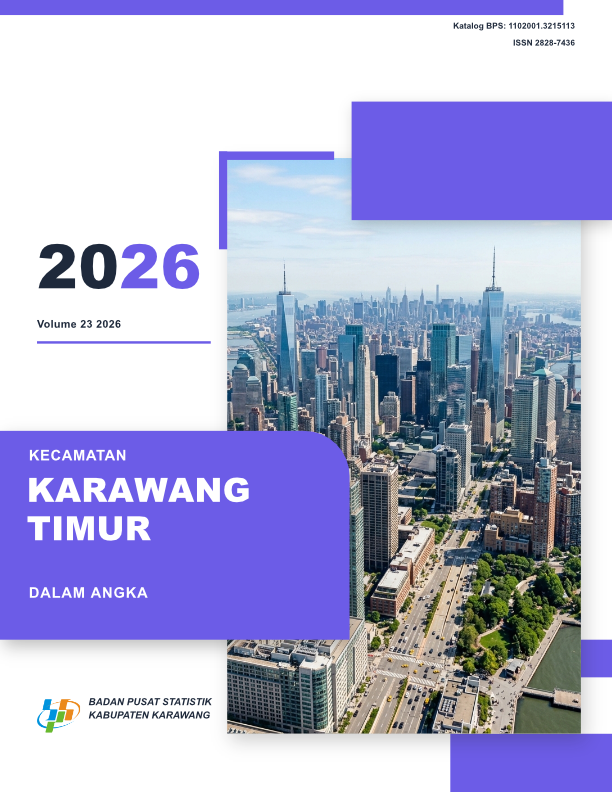
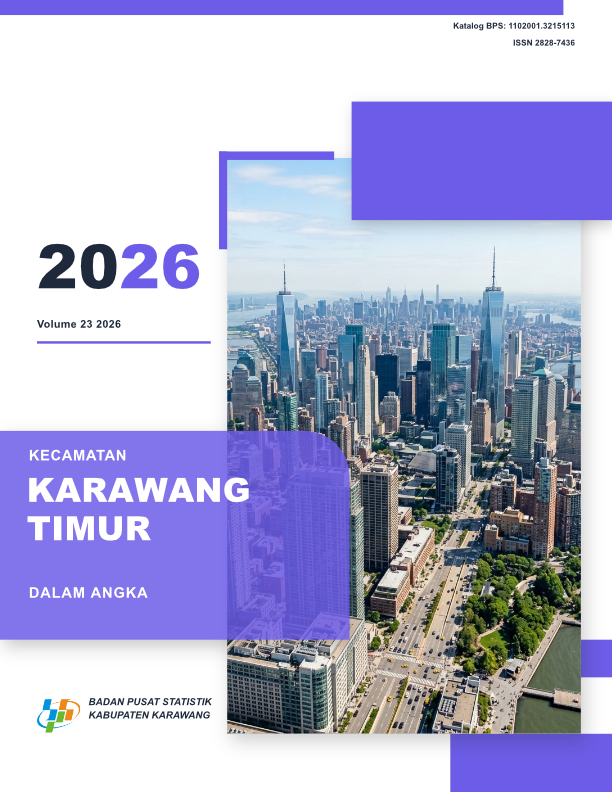
style(pubgen): make headline block behind cover title semi-transparent

Changed region(s): [[0.3725, 0.5455, 0.5588, 0.8182], [0.3725, 0.5455, 0.4036, 0.6061]]

diff --git a/crates/ui-egui/src/panels/pubgen.rs b/crates/ui-egui/src/panels/pubgen.rs
@@ -769,9 +769,9 @@ fn paint_fallback_cover_thumb(ui: &mut Ui, style_idx: usize, w: f32, h: f32, t: 
             // Middle-left year & volume line
             p.rect_filled(egui::Rect::from_min_max(rect.min + vec2(w * 0.06, h * 0.31), rect.min + vec2(w * 0.34, h * 0.39)), 2.0, Color32::from_rgb(30, 41, 59));
             p.rect_filled(egui::Rect::from_min_max(rect.min + vec2(w * 0.06, h * 0.41), rect.min + vec2(w * 0.32, h * 0.43)), 1.0, Color32::from_rgb(108, 92, 231));
-            // Headline block with rounded top-right
+            // Headline block with rounded top-right (semi-transparent)
             let hl_block = egui::Rect::from_min_max(rect.min + vec2(0.0, h * 0.54), rect.min + vec2(w * 0.58, h * 0.81));
-            p.rect_filled(hl_block, egui::CornerRadius { nw: 0, ne: 8, sw: 0, se: 0 }, Color32::from_rgb(108, 92, 231));
+            p.rect_filled(hl_block, egui::CornerRadius { nw: 0, ne: 8, sw: 0, se: 0 }, Color32::from_rgba_unmultiplied(108, 92, 231, 218));
             // Bottom-left logo & agency text (position lock)
             p.rect_filled(egui::Rect::from_min_max(rect.min + vec2(w * 0.06, h * 0.87), rect.min + vec2(w * 0.14, h * 0.94)), 2.0, Color32::from_rgb(108, 92, 231));
             p.rect_filled(egui::Rect::from_min_max(rect.min + vec2(w * 0.16, h * 0.88), rect.min + vec2(w * 0.52, h * 0.90)), 1.0, Color32::from_rgb(30, 41, 59));
@@ -2286,6 +2286,7 @@ fn execute_generate_cover(app: &mut DesignApp, st: &PubgenState) -> Result<Strin
             )?;
             let _ = app.run("object.color", json!({"color": primary, "target": "fill"}));
             let _ = app.run("object.stroke", json!({"swatch": "[None]"}));
+            let _ = app.run("object.opacity", json!({"opacity": 0.85}));
             let _ = app.run("object.dropShadow", json!({"on": true, "distance": 8, "size": 16, "opacity": 0.28}));
 
             let level_upper = level_text.to_uppercase();

diff --git a/docs/pubgen-guide.md b/docs/pubgen-guide.md
@@ -179,7 +179,7 @@ Pubgen provides 6 corporate design styles:
   - Upper-right corporate accent card with soft ambient drop shadow.
   - Tall vertical architectural / cityscape photograph (`[221, 168, 565, 780]`) framed by an accent L-bracket on the upper-left.
   - Middle-left dual-tone year display (`20` in dark charcoal `#1e293b`, `26` in purple `#6c5ce7`) with **Volume** (`Volume 23 2026`) directly underneath and an accent underline rule.
-  - Asymmetric focal headline purple block (`[0, 458, 340, 680]`) featuring a 46pt bezier rounded top-right corner, framing bold white title typography (**Arial Black**).
+  - Asymmetric semi-transparent focal headline purple block (`[0, 458, 340, 680]`, 85% opacity) featuring a 46pt bezier rounded top-right corner, letting the background cityscape photo subtly show through while framing bold white title typography (**Arial Black**).
   - **Position Lock**: Bottom-left official agency logo paired with multi-line institutional branding (**Arial Bold Italic**).
   - Bottom-right grounding purple corner block and mid-right edge accent tab.
 - **Best For**: Annual business reports, urban economic reviews, municipal profiles, modern regional digests.

diff --git a/docs/pubgen-guide_id.md b/docs/pubgen-guide_id.md
@@ -146,7 +146,7 @@ Pubgen menyediakan 6 pilihan desain sampul siap pakai:
   - Kotak aksen ungu di kanan atas dengan bayangan halus elegan.
   - Bingkai foto gedung/arsitektur vertikal di sisi tengah-kanan dengan siku aksen ungu (*L-bracket*) di sudut kiri atas foto.
   - Tampilan angka tahun dwi-warna di tengah-kiri (`20` berwarna abu gelap `#1e293b`, `26` berwarna ungu `#6c5ce7`) dengan **Volume** (`Volume 23 2026`) tepat di bawahnya dan garis bawah tebal.
-  - Blok judul utama warna ungu di kiri bawah dengan sudut kanan-atas melengkung halus (*rounded corner*), membingkai teks judul putih tebal (**Arial Black**).
+  - Blok judul utama warna ungu semi-transparan (opasitas 85%) di kiri bawah dengan sudut kanan-atas melengkung halus (*rounded corner*), memperlihatkan siluet foto gedung perkotaan di baliknya sambil membingkai teks judul putih tebal (**Arial Black**).
   - **Position Lock**: Logo instansi resmi di kiri bawah bersanding dengan teks nama instansi resmi (**Arial Bold Italic**).
   - Blok aksen sudut kanan bawah dan tab sisi kanan.
 - **Paling Cocok Untuk**: Laporan bisnis tahunan, profil wilayah, publikasi statistik ekonomi kota/daerah modern.

diff --git a/development_cover_style_from_designcraft_ref_file.md b/development_cover_style_from_designcraft_ref_file.md
@@ -278,6 +278,10 @@ In `execute_generate_cover()`, implement the new style arm following the positio
             {"p": [0.0, 680.0 * sy]}
         ]
     }))?;
+    let _ = app.run("object.color", json!({"color": primary, "target": "fill"}));
+    let _ = app.run("object.stroke", json!({"swatch": "[None]"}));
+    let _ = app.run("object.opacity", json!({"opacity": 0.85})); // Semi-transparent overlay over the photo
+    let _ = app.run("object.dropShadow", json!({"on": true, "distance": 8, "size": 16, "opacity": 0.28}));
     // Headline Typography (Level in Bold, Title in Arial Black, "DALAM ANGKA" in Bold)...
 
     // 6. Bottom-Left Logo & Agency Text (Position Lock)
